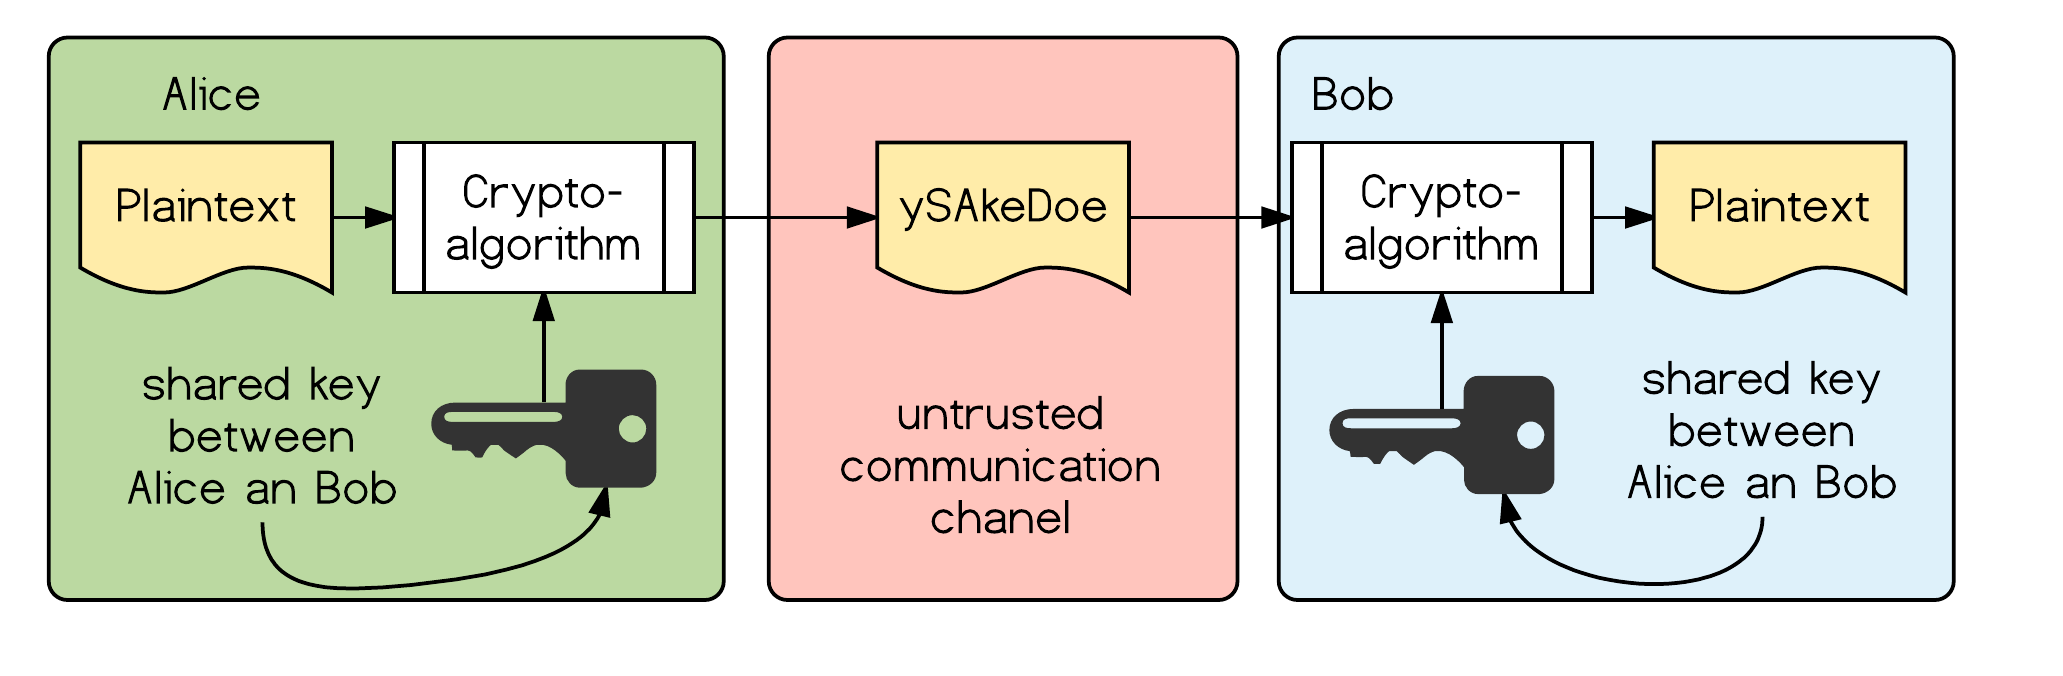
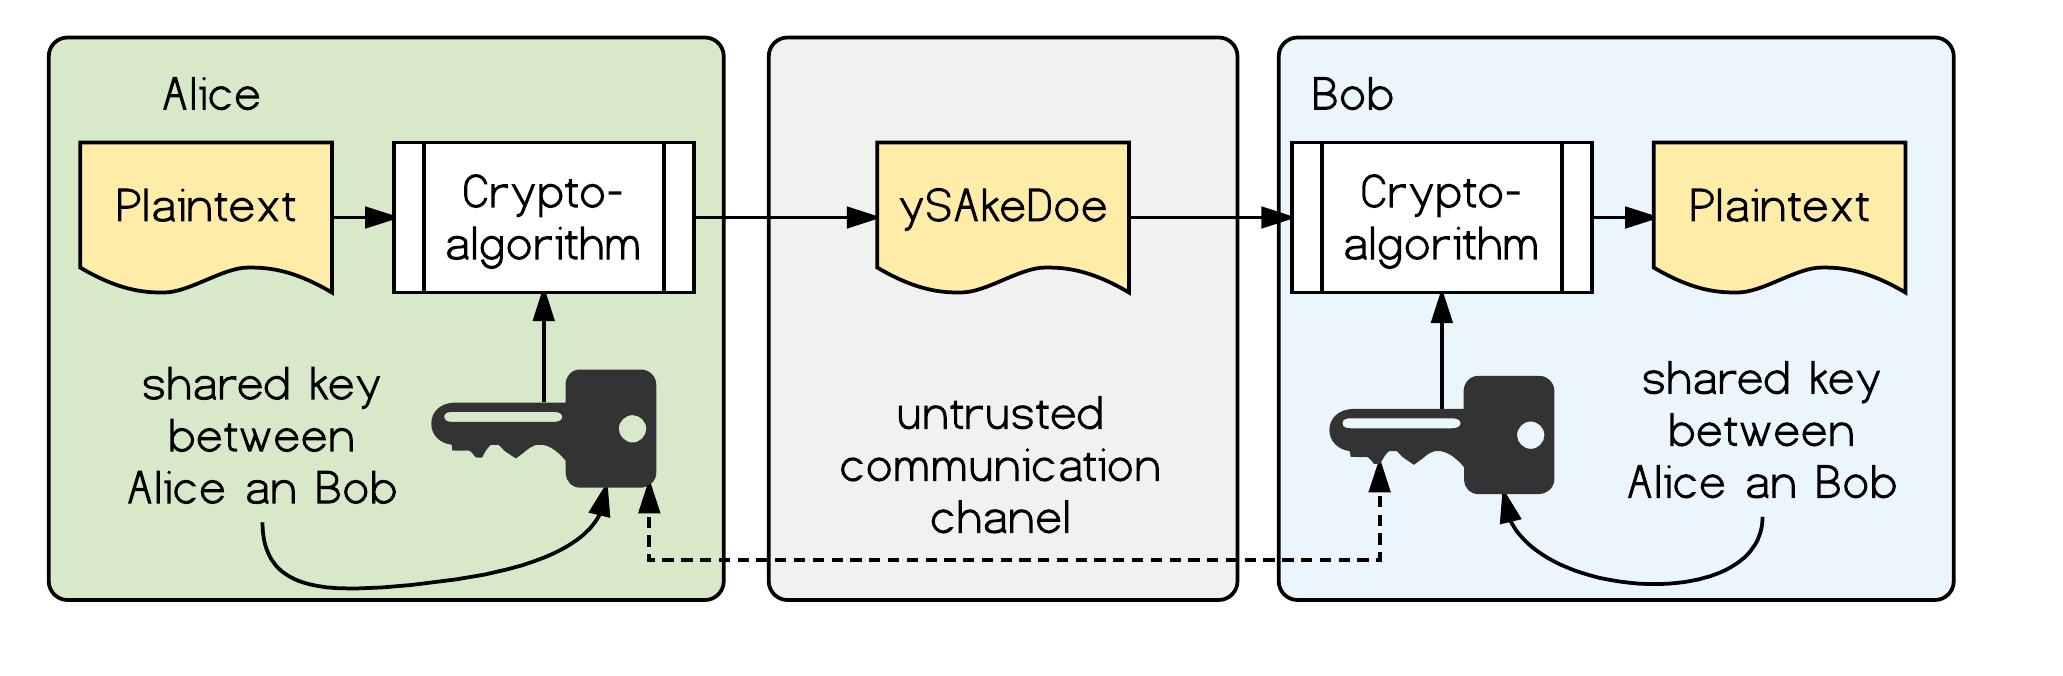
Symmetric cryptograpy updated.

diff --git a/security/04-sicherheitsaspekte.md b/security/04-sicherheitsaspekte.md
@@ -2,18 +2,34 @@
 
 ## Einleitung
 
-Entwickler sind in der Regel keine Sicherheitsexperten, Sicherheitsprobleme entstehen
-oft weil Implementierung fehlerhaft...
+Software--Entwickler sind in der Regel keine Sicherheitsexperten. Nicht nur
+Fehler in der Software gefährden ganze Systeme und Benutzerdaten, sondern auch
+der immer wieder fehlerhafte Einsatz von Kryptographie ist immer wieder für
+katastrophale Sicherheitsprobleme verantwortlich. Es ist *sehr schwer*
+Kryptographie *korrekt* zu Implementieren. Sogar der früher weit verbreitete
+Standard *WEP (Wired Equivalent Privacy)*, zur Verschlüsselten drahtlosen
+Kommunikation, weist gleich mehrere Designschwächen auf (vgl.
+[@martin2012everyday], S. 430).
+
+Sogar bei Unternehmen welche explizit mit *starker
+Kryptographie* werben und auch für welche Kryptographie zum Tagesgeschäft
+gehört, machen immer wieder fatale Fehler bei der Implementierung ihrer
+Produkte. 
+
+Verschlüssehttp://www.heise.de/security/artikel/Verschusselt-statt-verschluesselt-270058.html
+
+
 Selektiv gewählte Sicherheitsprinzipien werden betrachtet um zu sensibilisieren jedoch
-viel mehr um eine ,,sinnvollen'' Einsatz für brig definieren zu können.
+viel mehr um eine »sinnvollen« Einsatz für »brig« definieren zu können.
 
 ## Verschlüsselung
 
 ### Symmetrische Verschlüsselung
 
-#### Funktionsweise
+#### Generelle Funktionsweise
 
 [@fig:img-symmetric] zeigt die Verschlüsselung von Daten mittels symmetrischer Kryptographie. Bei symmetrischer Kryptographie wird der gleich Schlüssel um ver-- und entschlüsseln der Daten verwendet. 
+
 
 Beim Datenaustausch über unsichere Netze, muss der Schlüssel zuerst zwischen
 den Kommunikationspartnern ausgetauscht werden. In [@fig:img-symmetric]
@@ -23,15 +39,33 @@ Schlüssel* verwendet um die Daten wieder zu entschlüsseln.
 
 Symmetrische Verfahren sind im Vergleich zu asymmetrischen Verfahren sehr effizient.
 
-![Austausch von Daten über einen unsicheren Kommunikationsweg.](images/symmetric.png){#fig:img-symmetric width=100%}
+![Konzept beim Austausch von Daten über einen unsicheren Kommunikationsweg unter Verwendung symmetrischer Kryptographie. *Alice* und *Bob* teilen einen *gemeinsamen Schlüssel* um die Daten zu ver-- und entschlüsseln.](images/symmetric.png){#fig:img-symmetric width=85%}
 
-#### Betriebsarten
+#### Unterschied zwischen Block-- und Stromverschlüsselung
 
+Das symmetrische Verschlüsseln unterteilt sich in die beiden Verschlüsselungsverfahren Stromverschlüsselung und Blockverschlüsselung. Bei der Stromverschlüsselung wird direkt jedes Zeichen (Bit) des Klartextes mittels eines kryptografischen Schlüssels direkt (XOR) in ein Geheimtext Zeichen umgewandelt. 
 
+Bei der Blockverschlüsselung hingegen sind die Daten in Blöcke einer bestimmten Größe unterteilt. Die Verschlüsselung funktioniert auf Blockebene. Wie oder ob die Daten--Blöcke untereinander abhängig sind und welche Informationen bei der Verschlüsselung neben dem Schlüssel mit in die Verschlüsselung einfließen, bestimmt die sogenannte Betriebsart. [@fig:img-streamblock] zeigt exemplarisch den Unterschied zwischen Strom-- und Blockverschlüsselung.
 
-	* AES
-	* DES
-	* Twofish
+![Unterschied in der Arbeitsweise zwischen Block-- und Stromchiffre.](images/streamblock.png){#fig:img-streamblock width=80%}
+
+#### Betriebsarten der Blockverschlüsselung
+
+Die Betriebsart beschreibt auf welche Art und Weise die Blöcke verschlüsselt
+werden. Dies ist insofern wichtig, da sich durch die Betriebsart die
+Eigenschaften und somit der Einsatzzweck ändern kann.
+
+Folgend zwei Betriebsarten zum besserem Verständnis:
+
+**Electronic Code Book Mode (ECB):** Diese Betriebsart werden die Klartextblöcke unabhängig von einander verschlüsselt. Dies hat den Nachteil, dass gleiche Klartextblöcke immer in gleiche Geheimtextblock, bei Verwendung des gleichen Schlüssels, ergeben.
+
+**Cipher Feedback Mode (CFB):** Beim *CFB*--Modus fließt, neben dem Schlüssel, der Geheimtextblock vom Vorgänger ein. Durch diese Arbeitsweise haben im Gegensatz zum *ECB*--Modus gleiche Klartextblöcke unterschiedliche Geheimtextblöcke. Weiterhin wird bei dieser Arbeitsweise aus der Blockverschlüsselung eine Stromverschlüsselung.
+
+![ECB--Modus (links): Datenblöcke werden unabhängig von einander verschlüsselt. CFB--Modus (rechts): Datenblöcke hängen beim Verschlüsseln von einander ab.](images/ciphermode.png){#fig:img-streamblock width=100%}
+
+#### Gängige Algorithmen und Blockgrößen
+
+### Asymmetrische Verschlüsselung
 
 	* Grundlagen und Einsatzzwecke Asym. Verschlüsselung
 

diff --git a/security/02-stand-der-technik.md b/security/02-stand-der-technik.md
@@ -16,14 +16,16 @@ sind unter [@cpahl] zu finden.
 Betrachten man die »Sicherheit« von Dateiverteilungssystemen, so müssen
 verschiedene Teilaspekte betrachten werden. Leider ist das Umfeld der
 Sicherheit sehr groß und die Begrifflichkeiten nicht immer eindeutig definiert.
-In der Fachliteratur (vgl. [@pauly2004netzwerk]) spricht man oft von
-»IT--Sicherheit«. Zu den fünf Hauptaspekten dieser gehören in der Regel:
+In der Fachliteratur (vgl. [@pauly2004netzwerk]) spricht man bei »Sicherheit«
+oft von den folgenden fünf Sicherheitsaspekten:
 
 * Vertraulichkeit: Schutz der Daten vor Zugriff durch Dritte.
 * Integrität: Schutz der Daten vor Manipulation.
 * Authentifizierung: Eindeutige Identifikation von Benutzern.
 * Autorisierung: Definiert die Zugangs-- und Zugriffssteuerung auf Dienste.
 * Verfügbarkeit: Dienste stehen legitimen Benutzern tatsächlich zur Verfügung.
+
+Um diese zu auf technischer Ebene realisieren, müssen neben unterschiedliche Kryptographische Komponenten verwendet werden.
 
 ### Angriffe und Bedrohungen
 
@@ -54,6 +56,8 @@ von »Social Engineering«. [@fig:img-security] zeigt scherzhaft eine weitere
 Variante für welche Menschen anfällig sind.
 
 ### Datenaustausch über zentrale Lösungen
+
+#### Funktionsweise zentraler Dienste 
 
 Zentrale Dienste klassifizieren sich im Kontext dieser Arbeit durch die
 Eigenschaft, dass es eine zentrale Instanz gibt, welche zum Austausch der Daten
